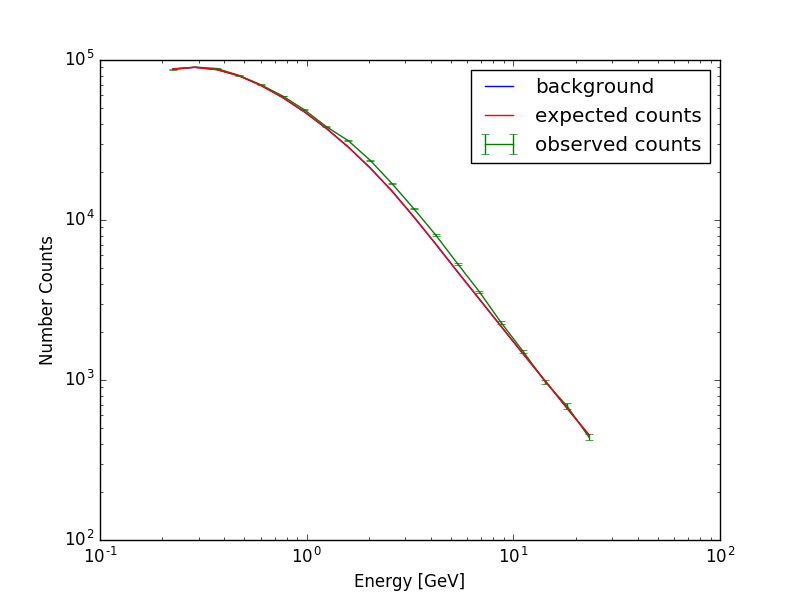
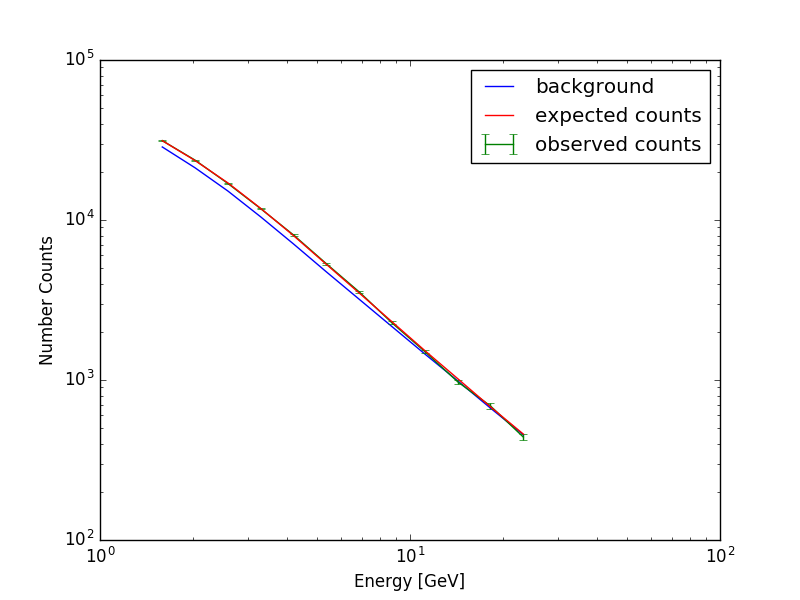
correlations...

diff --git a/GCE_jla_log_parab.py b/GCE_jla_log_parab.py
@@ -20,7 +20,7 @@ model = 0  #MG aka full
 #model = 1  #noMG
 #model = 2  IC data
 
-trunc = 0  #how many data points truncated from the front
+trunc = 8  #how many data points truncated from the front
 dataset=20 #largest data point
 
 raw= np.array([np.loadtxt('data/background/GCE_paper_fullmodel_spectrum.dat'),
@@ -35,12 +35,16 @@ k = raw[trunc:dataset,5]
 background = raw[trunc:dataset,7]
 exposure = raw[trunc:dataset,6]
 
-Eb = np.logspace(-2,2,20)
-alpha = np.linspace(0,2,20)
-beta = np.linspace(0.01,2,20)
-N0_GCE = np.logspace(-10,-3,14)
+Eb = np.logspace(-2,2,40)
+alpha = np.linspace(-2,2,40)
+beta = np.linspace(0.01,2,40)
+N0_GCE = np.logspace(-8,-6,40)
 
 binned_spectra = GCE_calcs.calculations.get_spec_log_parab(N0_GCE,alpha,beta,Eb,emax_GCE,emin_GCE)
+
+unbinned_spectra = GCE_calcs.calculations.get_dn_de_log_parab(N0_GCE,alpha,beta,Eb,10**bin_center)
+
+
 
 #print binned_spectra[0,0,0,0,:]
 #print binned_spectra[0,0,0,:,0]
@@ -70,16 +74,6 @@ mu_GCE = GCE_calcs.calculations.get_mu_log_parab(background,exposure,binned_spec
 #print background[0,0,0,0,:]
 #print k[0,0,0,0,:] - background[0,0,0,0,:]
 
-plt.plot(10**bin_center,background[0,0,0,0,:],label = 'background')
-plt.errorbar(10**bin_center,k[0,0,0,0,:],yerr = np.sqrt(k[0,0,0,0,:]),label = 'observed counts')
-plt.plot(10**bin_center, mu_GCE[0,n_alpha/2,n_beta/2,n_eb/2,:],label = 'expected counts')
-plt.xlabel('Energy [GeV]')
-plt.ylabel('Number Counts')
-plt.legend(loc='best')
-plt.xscale('log')
-plt.yscale('log')
-plt.savefig('log_parab_test.png')
-plt.clf()
 
 
 log_like_GCE_5d = GCE_calcs.analysis.poisson_log_like(k,mu_GCE)
@@ -96,6 +90,37 @@ print 'the max alpha is ' + str(alpha[max_index[1]])
 print 'the max beta is ' + str(beta[max_index[2]])
 print 'the max Eb is ' + str(Eb[max_index[3]])
 print 'the max N0 is ' + str(N0_GCE[max_index[0]])
+
+
+plt.plot(10**bin_center,background[0,0,0,0,:],label = 'background')
+plt.errorbar(10**bin_center,k[0,0,0,0,:],yerr = np.sqrt(k[0,0,0,0,:]),label = 'observed counts')
+plt.plot(10**bin_center, mu_GCE[max_index[0],max_index[1],max_index[2],max_index[3],:],label = 'expected counts')
+plt.xlabel('Energy [GeV]')
+plt.ylabel('Number Counts')
+plt.legend(loc='best')
+plt.xscale('log')
+plt.yscale('log')
+plt.savefig('log_parab_test.png')
+plt.clf()
+
+
+plt.plot(10**bin_center,binned_spectra[max_index[0],max_index[1],max_index[2],max_index[3],:])
+plt.plot(10**bin_center,binned_spectra[max_index[0],max_index[1],max_index[2]+2,max_index[3],:])
+plt.plot(10**bin_center,binned_spectra[max_index[0],max_index[1],max_index[2]-2,max_index[3],:])
+plt.xscale('log')
+plt.yscale('log')
+plt.savefig('beta_test.png')
+plt.clf()
+
+plt.plot(10**bin_center,unbinned_spectra[max_index[0],max_index[1],max_index[2],max_index[3],:])
+plt.plot(10**bin_center,unbinned_spectra[max_index[0],max_index[1],max_index[2]+2,max_index[3],:])
+plt.plot(10**bin_center,unbinned_spectra[max_index[0],max_index[1],max_index[2]-2,max_index[3],:])
+plt.xscale('log')
+plt.yscale('log')
+plt.savefig('unbinned_spectra.png')
+plt.clf()
+
+
 
 like_GCE_4d = np.exp(log_like_GCE_4d)
 
@@ -141,6 +166,26 @@ delta_log_like_2d = -(np.log(like_GCE_2d) - np.log(like_GCE_2d.max()))
 
 print delta_log_like_2d.shape
 
+
+posterior_N0 = np.trapz(np.trapz(np.trapz(like_GCE_4d,x = Eb,axis=3),x=beta,axis=2),x=alpha,axis=1)/alpha_prior_norm/beta_prior_norm/Eb_prior_norm
+
+posterior_N0_beta = np.trapz(np.trapz(like_GCE_4d,x = Eb,axis=3),x=alpha,axis=1)
+
+plt.plot(N0_GCE,posterior_N0 / posterior_N0.max())
+plt.xscale('log')
+plt.xlabel('Normalization')
+plt.ylabel('scaled probability')
+plt.savefig('N0_posterior.png')
+plt.clf()
+
+levels = [0,1,3,6,10]
+plt.contour(N0_GCE,beta,-np.log(posterior_N0_beta / posterior_N0_beta.max()))
+plt.xscale('log')
+plt.xlabel('normalization')
+plt.ylabel('beta')
+plt.savefig('N0_beta_posterior.png')
+plt.clf()
+
 #print alpha
 #print beta
 
@@ -148,13 +193,13 @@ print delta_log_like_2d.shape
 
 #print np.argmax(like_GCE_2d,axis=0)
 
-levels = [0,1,3,6,10]
 plt.contour(alpha, beta, delta_log_like_2d ,levels)
 #plt.xlim(0,2)
 #plt.ylim(6,8)
 plt.xlabel('alpha')
 plt.ylabel('beta')
 plt.savefig('posterior_test.png')
+plt.clf()
 
 
 

diff --git a/GCE_calcs/calculations.py b/GCE_calcs/calculations.py
@@ -85,3 +85,16 @@ def get_spec_log_parab(N0,alpha,beta,Eb,emax,emin):
     #return N0 *  ((alpha-1) + 2*beta*np.log(emax/Eb)) / (2*beta**0.5)
     return N0*Eb*0.5*np.sqrt(np.pi/beta) * np.exp(-0.25*(alpha-1)**2/beta) * (erf(0.5*(alpha-1)/np.sqrt(beta) + np.sqrt(beta)*np.log(emax/Eb)) - erf(0.5*(alpha-1)/np.sqrt(beta) + np.sqrt(beta)*np.log(emin/Eb)))
 
+
+def get_dn_de_log_parab(N0,alpha,beta,Eb,energy):
+    n_spec = len(energy)
+    n_eb = len(Eb)
+    n_beta = len(beta)
+    n_alpha = len(alpha)
+    n_N0 = len(N0)
+    N0 = np.tile(N0[:,np.newaxis,np.newaxis,np.newaxis,np.newaxis],(1,n_alpha,n_beta,n_eb,n_spec))
+    alpha = np.tile(alpha[np.newaxis,:,np.newaxis,np.newaxis,np.newaxis],(n_N0,1,n_beta,n_eb,n_spec))
+    beta = np.tile(beta[np.newaxis,np.newaxis,:,np.newaxis,np.newaxis],(n_N0,n_alpha,1,n_eb,n_spec))
+    Eb = np.tile(Eb[np.newaxis,np.newaxis,np.newaxis,:,np.newaxis],(n_N0,n_alpha,n_beta,1,n_spec))
+    energy = np.tile(energy[np.newaxis,np.newaxis,np.newaxis,np.newaxis,:],(n_N0,n_alpha,n_beta,n_eb,1))
+    return N0*(energy/Eb)**(-alpha - beta*np.log(energy/Eb))
